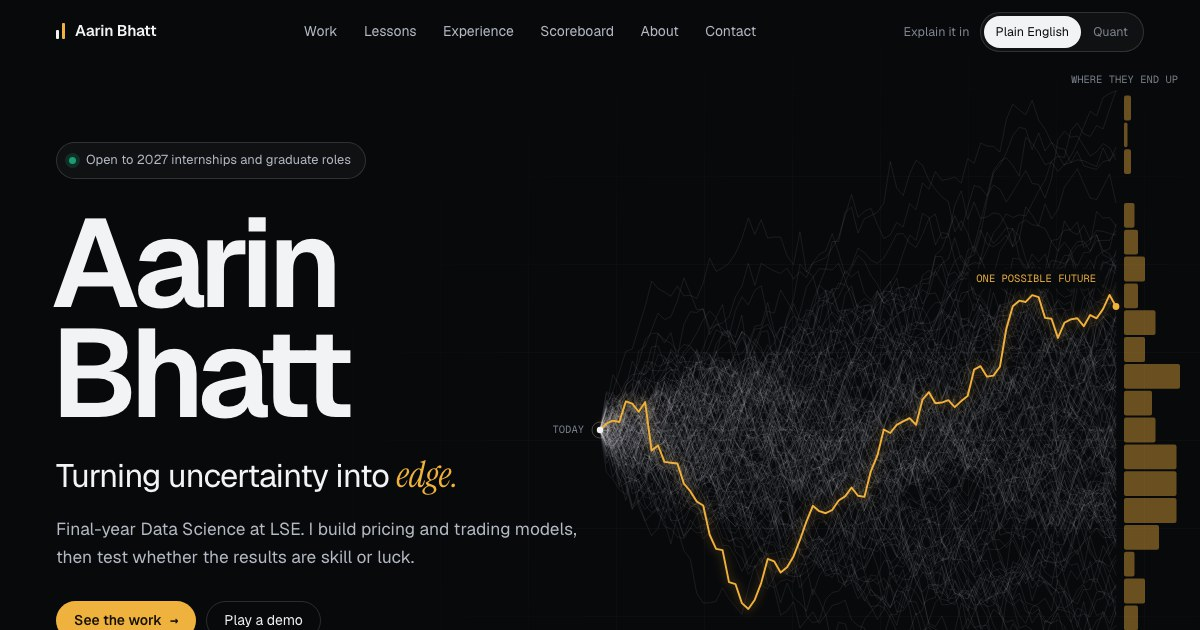
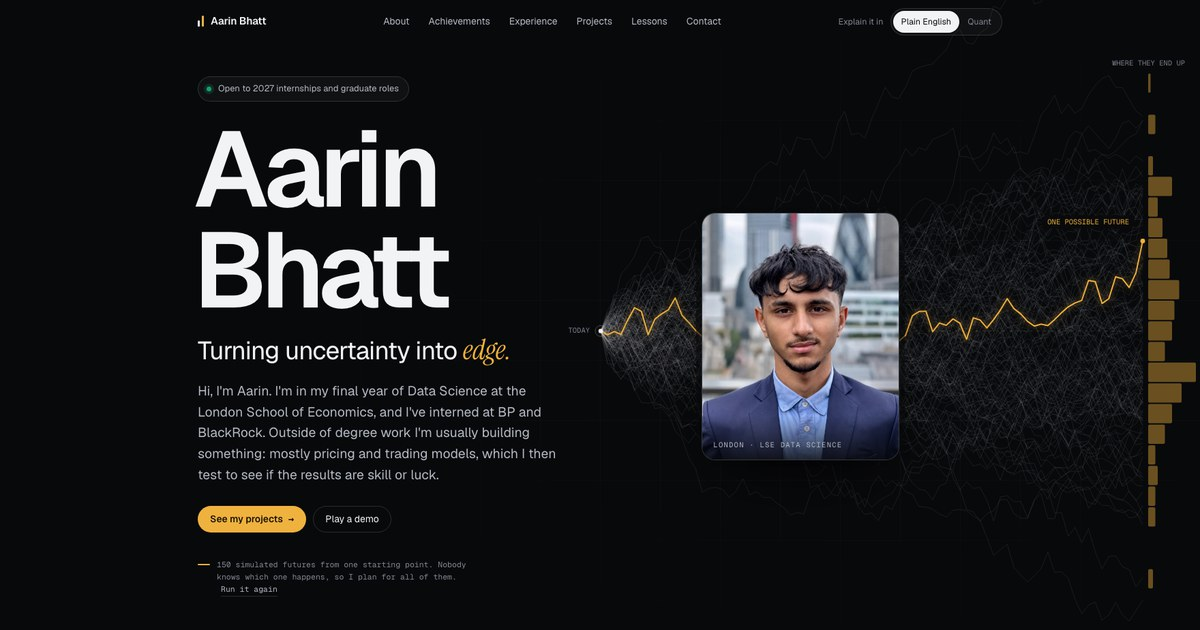
Refresh the share picture to show the current opening screen
The picture shown when the site is shared (og.jpg) still showed the
16 November opening screen. It now shows today's menu, intro and
headshot, with nothing cut off. Its address carries ?v=2 so services
that stored the old picture fetch the new one.

diff --git a/vitejs-vite-fnukxyrx/index.html b/vitejs-vite-fnukxyrx/index.html
@@ -18,7 +18,7 @@
       property="og:description"
       content="Final-year Data Science at LSE. Pricing and trading models you can try for yourself."
     />
-    <meta property="og:image" content="https://aarinbhatt.com/og.jpg" />
+    <meta property="og:image" content="https://aarinbhatt.com/og.jpg?v=2" />
     <meta name="twitter:card" content="summary_large_image" />
     <script>
       try {
